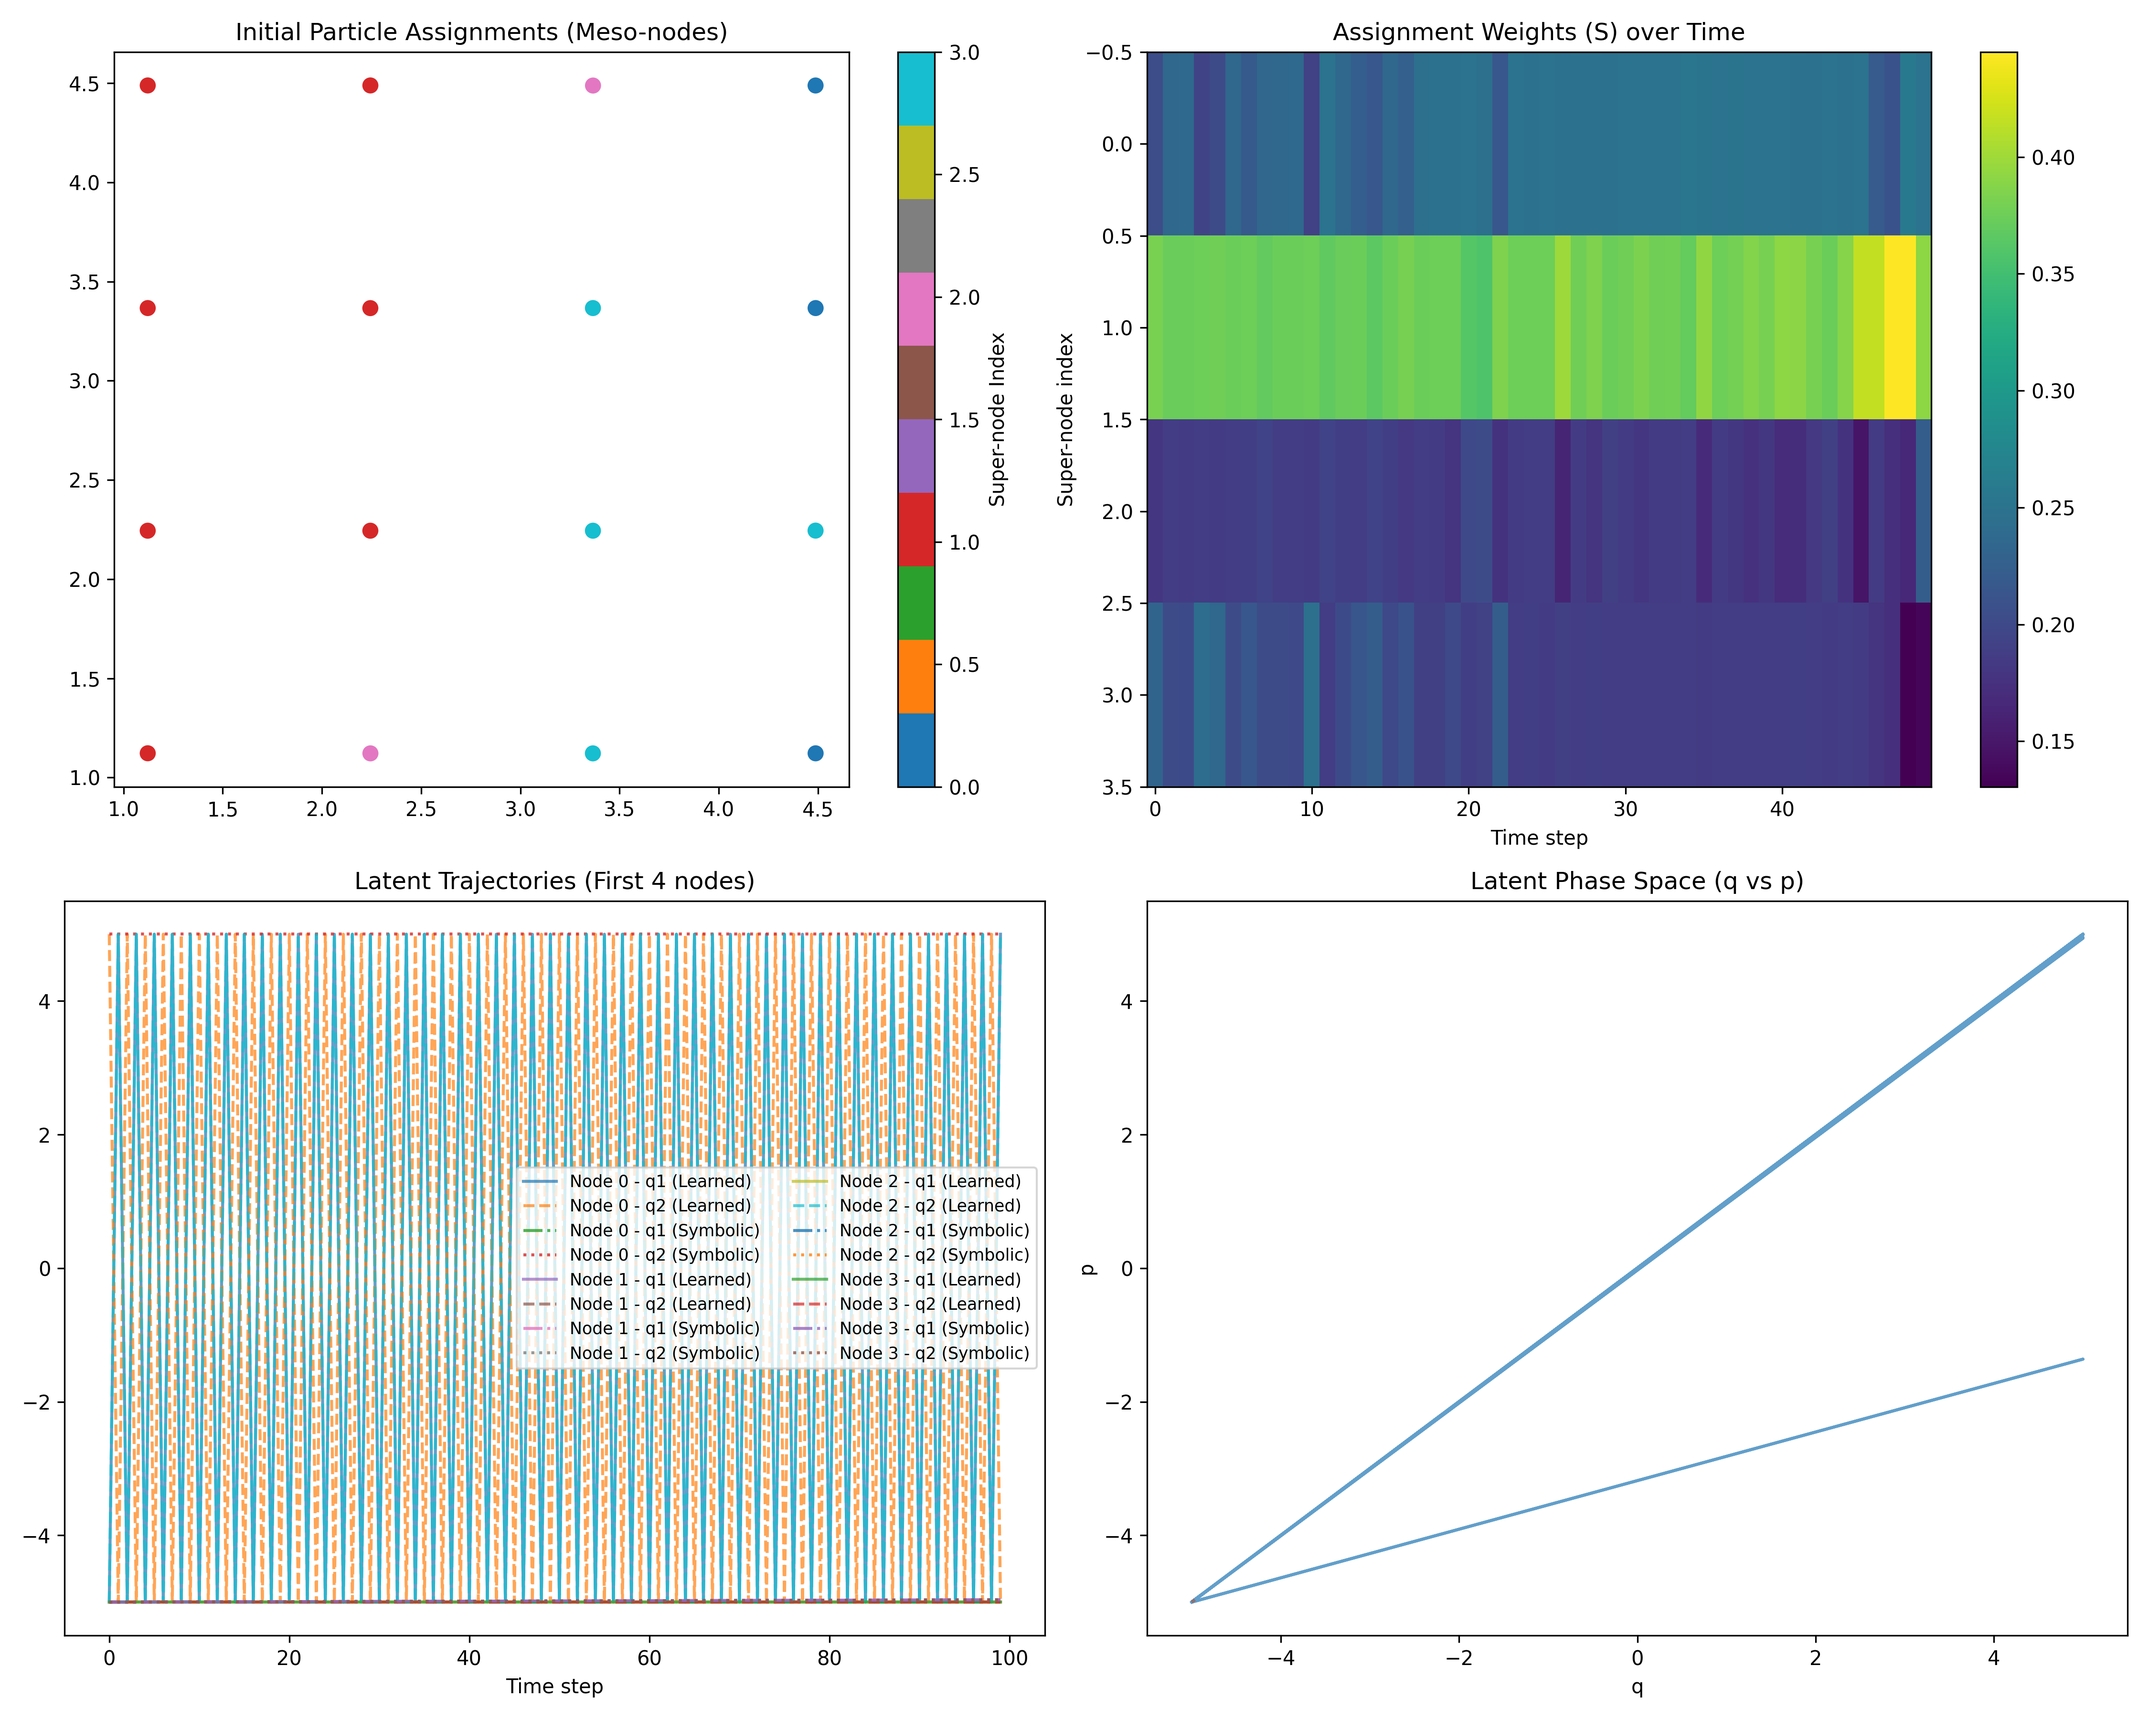
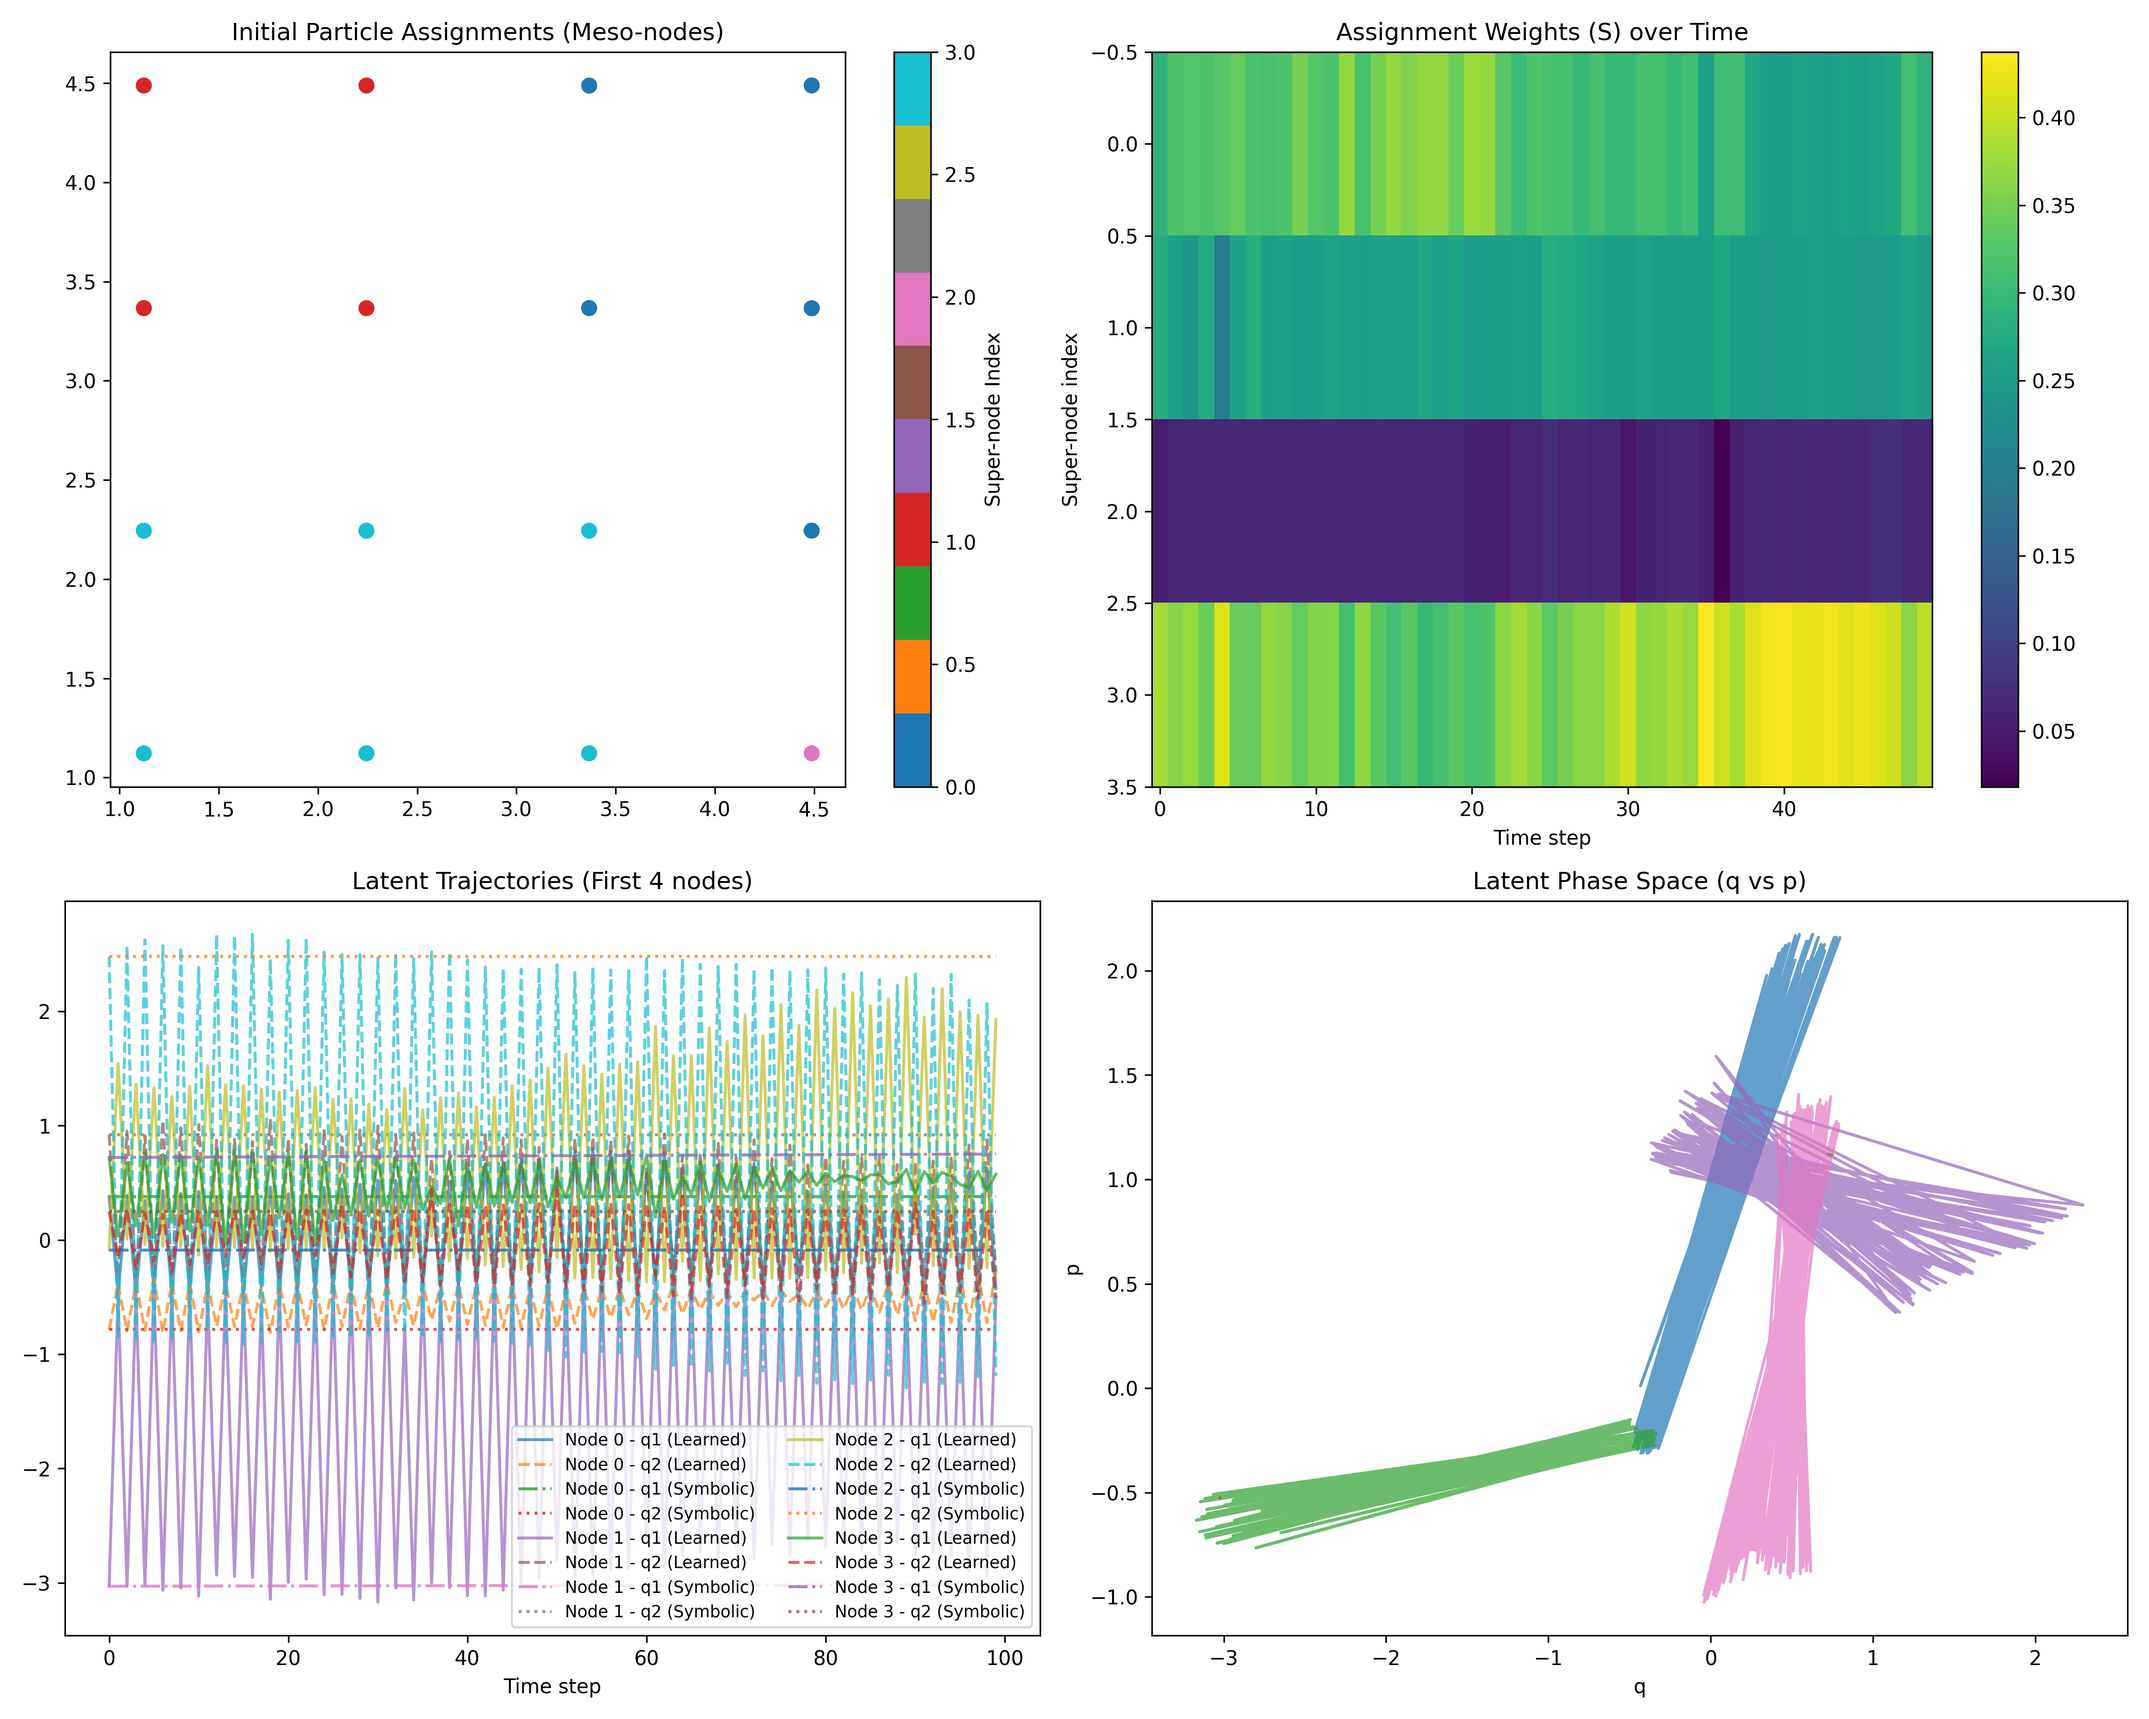
updated

diff --git a/model.py b/model.py
@@ -367,6 +367,9 @@ class HamiltonianODEFunc(nn.Module):
             nn.Linear(hidden_dim//2, 1)
         )
 
+        # Initialize weights with smaller values to prevent initial instability
+        self._initialize_weights_small()
+
         # Add LayerNorm at the input to stabilize gradients
         self.input_norm = nn.LayerNorm(latent_dim * n_super_nodes)
 
@@ -413,11 +416,11 @@ class HamiltonianODEFunc(nn.Module):
             if dH is None:
                 dH = torch.zeros_like(y_in)
             else:
-                # Handle NaNs and Infs in the gradient
-                dH = torch.nan_to_num(dH, nan=0.0, posinf=1e3, neginf=-1e3)
+                # Handle NaNs and Infs in the gradient - MORE AGGRESSIVE CLIPPING
+                dH = torch.nan_to_num(dH, nan=0.0, posinf=1e2, neginf=-1e2)
 
-        # Gradient clipping for stability during ODE integration
-        dH = torch.clamp(dH, -1e3, 1e3)
+        # Gradient clipping for stability during ODE integration - MORE AGGRESSIVE
+        dH = torch.clamp(dH, -1e2, 1e2)
 
         # dH is [batch_size, n_super_nodes * latent_dim]
         # Reshape to [batch_size, n_super_nodes, 2, latent_dim // 2]
@@ -434,7 +437,9 @@ class HamiltonianODEFunc(nn.Module):
             gamma = torch.exp(torch.clamp(self.gamma, max=2.0)) # Clamp gamma to prevent extreme dissipation
             dp = dp - gamma * p
 
-        return torch.cat([dq, dp], dim=-1).view(y.shape[0], -1)
+        # Final clamping to prevent explosive growth
+        result = torch.cat([dq, dp], dim=-1).view(y.shape[0], -1)
+        return torch.clamp(result, -1e2, 1e2)
 
 class GNNDecoder(nn.Module):
     def __init__(self, latent_dim, hidden_dim, out_features, box_size=10.0):
@@ -632,20 +637,20 @@ class DiscoveryEngineModel(nn.Module):
         # Use the device of the ode_func parameters
         ode_device = next(self.ode_func.parameters()).device
         original_device = z0.device
-        
+
         # MPS fix: torchdiffeq is unstable on MPS. If original or ode device is MPS, use CPU.
         is_mps = (str(original_device) == 'mps' or str(ode_device) == 'mps')
         target_device = torch.device('cpu') if is_mps else ode_device
 
         y0 = z0_flat.to(target_device)
         t_ode = t.to(target_device)
-        
+
         # Ensure ode_func is on the correct device
         self.ode_func.to(target_device)
 
         # Use adaptive tolerance based on training stage
         eps = 1e-3 if is_mps else 0.0
-        
+
         if self.training:
             # Looser tolerances during training for efficiency
             rtol = 1e-1 + eps
@@ -679,5 +684,14 @@ class DiscoveryEngineModel(nn.Module):
         # Move back to original device
         zt_flat = zt_flat.to(original_device)
 
+        # Check for NaN values and handle them
+        if torch.isnan(zt_flat).any():
+            print(f"WARNING: NaN detected in forward_dynamics output!")
+            print(f"  Input z0 shape: {z0.shape}")
+            print(f"  Input z0 has NaN: {torch.isnan(z0).any()}")
+            print(f"  Output zt_flat has NaN: {torch.isnan(zt_flat).any()}")
+            # Replace NaN values with 0
+            zt_flat = torch.nan_to_num(zt_flat, nan=0.0, posinf=1e2, neginf=-1e2)
+
         # zt_flat: [len(t), batch_size, latent_dim * n_super_nodes]
-        return zt_flat.view(zt_flat.size(0), zt_flat.size(1), -1, z0.size(-1))
+        return zt_flat.reshape(zt_flat.size(0), zt_flat.size(1), -1, z0.size(-1))

diff --git a/engine.py b/engine.py
@@ -357,7 +357,7 @@ class Trainer:
     def __init__(self, model, lr=5e-4, device='cpu', stats=None, align_anneal_epochs=1000,
                  warmup_epochs=20, max_epochs=1000, sparsity_scheduler=None, hard_assignment_start=0.7,
                  skip_consistency_freq=2, enable_gradient_accumulation=False, grad_acc_steps=1,
-                 enhanced_balancer=None):
+                 enhanced_balancer=None, consistency_weight=1.0, spatial_weight=1.0):
         self.model = model.to(device)
         self.device = device
         self.loss_tracker = LossTracker()
@@ -372,7 +372,9 @@ class Trainer:
         self.enable_gradient_accumulation = enable_gradient_accumulation
         self.grad_acc_steps = grad_acc_steps
         self.enhanced_balancer = enhanced_balancer
-        
+        self.consistency_weight = consistency_weight
+        self.spatial_weight = spatial_weight
+
         # Learnable log-scaling for alignment to ensure it stays positive and stable
         # Initialize to a value that brings the initial alignment loss below 1.0
         self.log_align_scale = torch.nn.Parameter(torch.tensor(0.0, device=device))  # exp(0) = 1.0
@@ -493,7 +495,7 @@ class Trainer:
         loss_assign = (
             entropy_weight * losses_0['entropy'] +
             5.0 * losses_0['diversity'] + # Increased from 1.0
-            5.0 * losses_0['spatial'] + # Increased from 0.1
+            5.0 * self.spatial_weight * losses_0['spatial'] + # Increased from 0.1 and multiplied by spatial_weight
             1.0 * losses_0.get('collapse_prevention', 0.0) + # Increased from 0.1
             1.0 * losses_0.get('balance', 0.0) + # Increased from 0.1
             1.0 * losses_0.get('temporal_consistency', 0.0) # Increased from 0.1
@@ -737,7 +739,7 @@ class Trainer:
             loss_assign += (
                 entropy_weight * losses_t['entropy'] +
                 5.0 * losses_t['diversity'] +
-                5.0 * losses_t['spatial'] +
+                5.0 * self.spatial_weight * losses_t['spatial'] +
                 1.0 * losses_t.get('collapse_prevention', 0.0) +
                 1.0 * losses_t.get('balance', 0.0) +
                 1.0 * losses_t.get('temporal_consistency', 0.0)
@@ -843,7 +845,7 @@ class Trainer:
         discovery_loss += 1e-4 * torch.clamp(loss_curv.to(torch.float32), 0, 100)
 
         loss = discovery_loss + (weights['l2'] * 1e-6 * torch.clamp(loss_l2, 0, 100) + lvars[4]) + (weights['lvr'] * 0.1 * torch.clamp(loss_lvr, 0, 100) + lvars[5])  # Decr lvr (2.0->0.1)
-        if compute_consistency: loss += (weights['cons'] * torch.clamp(loss_cons.to(torch.float32), 0, 100) * dynamics_factor + lvars[1])
+        if compute_consistency: loss += (weights['cons'] * self.consistency_weight * torch.clamp(loss_cons.to(torch.float32), 0, 100) * dynamics_factor + lvars[1])
 
         # Add smoothing loss to the total loss - REDUCED WEIGHT
         smooth_idx = list(raw_losses.keys()).index('smooth')  # This should be 15

diff --git a/unified_train.py b/unified_train.py
@@ -30,6 +30,8 @@ def main():
     parser.add_argument('--quick_symbolic', action='store_true', help='Use quick symbolic distillation')
     parser.add_argument('--memory_efficient', action='store_true', help='Use memory-efficient mode')
     parser.add_argument('--latent_dim', type=int, default=8, help='Dimension of latent space')
+    parser.add_argument('--consistency_weight', type=float, default=1.0, help='Weight for consistency loss')
+    parser.add_argument('--spatial_weight', type=float, default=1.0, help='Weight for spatial loss')
     args = parser.parse_args()
 
     device = get_device() if args.device == 'auto' else args.device
@@ -69,7 +71,9 @@ def main():
         stats=stats,
         warmup_epochs=int(args.epochs * 0.25), # Stage 1: Train rec and assign - 25% of total epochs
         max_epochs=args.epochs,
-        sparsity_scheduler=sparsity_scheduler
+        sparsity_scheduler=sparsity_scheduler,
+        consistency_weight=args.consistency_weight,
+        spatial_weight=args.spatial_weight
     )
     early_stopping = ImprovedEarlyStopping(patience=100)  # Reduced patience to allow for more focused training
     scheduler = torch.optim.lr_scheduler.CosineAnnealingLR(trainer.optimizer, T_max=args.epochs)
@@ -146,11 +150,26 @@ def main():
     # Compute health metrics
     stability_window = max(10, int(len(dz_states) * 0.2))
     recent_dz = dz_states[-stability_window:]
-    dz_stability = np.var(recent_dz)
-    
+
+    # Debug: Check for NaN values in dz_states
+    if np.any(np.isnan(dz_states)):
+        print("WARNING: NaN detected in dz_states!")
+        print(f"  Total NaN values: {np.sum(np.isnan(dz_states))}")
+        print(f"  Total values: {dz_states.size}")
+        print(f"  dz_states shape: {dz_states.shape}")
+
+        # Clean up NaN values for variance calculation
+        clean_dz = dz_states[~np.isnan(dz_states)]
+        if len(clean_dz) > 0:
+            dz_stability = np.var(clean_dz)
+        else:
+            dz_stability = float('inf')
+    else:
+        dz_stability = np.var(recent_dz)
+
     health_metrics = {
         "Reconstruction Fidelity": (last_rec < 1.0, f"Rec Loss {last_rec:.4f}"),  # Increased threshold from 0.7 to 1.0
-        "Latent Stability": (dz_stability < 0.2, f"Var[dz] {dz_stability:.4f}"),
+        "Latent Stability": (dz_stability < 0.2 and not np.isnan(dz_stability), f"Var[dz] {dz_stability:.4f}"),
         "Training Maturity": (epoch >= 100, f"Epochs {epoch}")  # Reduced from 200 to 100
     }
     

diff --git a/symbolic.py b/symbolic.py
@@ -150,31 +150,51 @@ def extract_latent_data(model, dataset, dt, include_hamiltonian=False):
                 ei = data.edge_index.to(device)
             else:
                 ei = torch.empty((2, 0), dtype=torch.long, device=device)
-            
+
             batch = torch.zeros(x.size(0), dtype=torch.long, device=device)
-            
+
             try:
                 z, _, _, _ = model.encode(x, ei, batch)
-                z_flat = z.view(1, -1)
-                
+
+                # Check for NaN in z before proceeding
+                if torch.isnan(z).any():
+                    print(f"DEBUG: NaN detected in encoded z at step {i}")
+                    continue
+
+                z_flat = z.reshape(1, -1)  # Use reshape instead of view to avoid stride issues
+
                 states.append(z_flat[0].cpu().numpy())
-                
+
                 if include_hamiltonian and hasattr(model.ode_func, 'H_net'):
                     # Extract scalar Hamiltonian
                     ode_device = next(model.ode_func.parameters()).device
                     H = model.ode_func.H_net(z_flat.to(ode_device))
+
+                    # Check for NaN in H
+                    if torch.isnan(H).any():
+                        print(f"DEBUG: NaN detected in H at step {i}")
+                        continue
+
                     derivs.append(H.cpu().numpy().flatten())
                 else:
                     # Extract dynamics derivative
                     ode_device = next(model.ode_func.parameters()).device
                     dz = model.ode_func(torch.tensor([i*dt], device=ode_device), z_flat.to(ode_device))
+
+                    # Check for NaN in dz
+                    if torch.isnan(dz).any():
+                        print(f"DEBUG: NaN detected in dz at step {i}")
+                        # Replace NaN values with 0
+                        dz = torch.nan_to_num(dz, nan=0.0, posinf=1e2, neginf=-1e2)
+
                     derivs.append(dz[0].cpu().numpy())
             except Exception as e:
+                print(f"Exception at step {i}: {e}")
                 continue
-                
+
     if not states:
         return np.array([]), np.array([]), np.array([])
-        
+
     return np.array(states), np.array(derivs), np.linspace(0, len(states)*dt, len(states))
 
 def gp_to_sympy(expr_str, *args, **kwargs):
